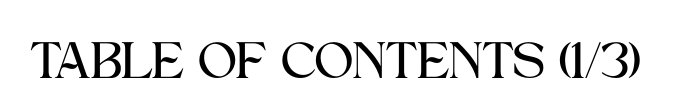
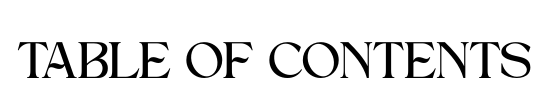
Fixed a few bugs

Changed region(s): [[0.0311, 0.3853, 0.9963, 0.7156]]

diff --git a/client/src/components/tableOfContents/TableOfContents.jsx b/client/src/components/tableOfContents/TableOfContents.jsx
@@ -68,8 +68,7 @@ function TableOfContents(){
 
     function SearchBar(){
         return(
-            <div className="searchBar">
-            {/* onChange={event => {setName(event.target.value);}} */}
+            <div className="searchBarTOC">
             <div className="searchTop">
                 <input className="searchInput" type="text"  placeholder = "Spell Name..."
                     onChange={onChange}
@@ -86,7 +85,6 @@ function TableOfContents(){
                     }}>{item.spell_name} </button>
                     
                 ))}
-                {/* <button className="closeBtn" onClick={closeSearch}>Close</button> */}
             </div>
             <button className="closeBtn" onClick={closeSearch}>Close</button>
 
@@ -98,12 +96,12 @@ function TableOfContents(){
     return(
         <div className="tableOfContentsPage">
             <div className="navbar">
-            {showSearch ? <img className="search" src={searchImage} alt="Search" onClick={openSearch}/>: SearchBar()}
+            {showSearch ? <img className="search" src={searchImage} alt="Search" onClick={openSearch} style={{marginTop:"0rem"}}/>: SearchBar()}
             <img className="homeImage" src={homeBlackImage} alt="Home" onClick={() => navigate("/")}/>
             </div>
             <div className="tocTitle">
                 <div className="column half">
-                    <img className="toc" src={tableOfContentsTitle} alt="Table of Contents"/>
+                    <img className="toc" src={tableOfContentsTitle} alt="Table of Contents" style={{marginBottom:'0rem', marginLeft:'-0.3rem'}}/>
                     <img className="leaf" src={leafImage} alt="Leaf"/>
 
                     <div className="arcaneText">

diff --git a/client/src/components/spellPages/assets/spellPagesStyle.css b/client/src/components/spellPages/assets/spellPagesStyle.css
@@ -20,7 +20,7 @@ body, html {
     padding: 1rem;
 }
 
-.navbar {
+.navbarTOC {
     display: flex;
     align-items: center;
     justify-content: space-between;
@@ -29,7 +29,7 @@ body, html {
     margin-top: 0;
 }
 
-.navbar .leftIcons {
+.navbarTOC .leftIcons {
     display: flex;
     margin-top: 23rem;
     margin-left: -1.2rem;
@@ -40,50 +40,50 @@ body, html {
     gap: 10px;
 }
 
-.navbar .leftIcons img {
-    width: 2rem; 
+.navbarTOC .leftIcons img {
+    width: 1.6rem; 
     margin-top: -8rem; 
     margin-right: 10px;
 }
 
-.navbar .rightIcons {
+.navbarTOC .rightIcons {
     display: flex;
     align-items: center;
     margin-left: 20rem;
     margin-top: -1rem;
 }
 
-.navbar img.rightNav {
+.navbarTOC img.rightNav {
     margin-right: 7px; 
     cursor: pointer;
     max-width: 37%;
     max-height: auto;
 }
 
-.navbar img.search {
+.navbarTOC img.search {
     cursor: pointer;
 }
 
-.navbar img.rightNav {
+.navbarTOC img.rightNav {
     cursor: pointer;
 }
 
-.navbar img.spellCart {
+.navbarTOC img.spellCart {
     margin-top: 10px;
     cursor: pointer;
 }
 
-.navbar img.spellCart:hover {
+.navbarTOC img.spellCart:hover {
     transform: scale(1.1); 
     transition: transform 0.3s ease-in-out;
 }
 
-.navbar img.search:hover {
+.navbarTOC img.search:hover {
     transform: scale(1.1); 
     transition: transform 0.3s ease-in-out;
 }
 
-.navbar img.rightNav:hover {
+.navbarTOC img.rightNav:hover {
     transform: scale(1.1); 
     transition: transform 0.3s ease-in-out;
 }

diff --git a/client/src/components/tableOfContents/assets/tableOfContentsStyle.css b/client/src/components/tableOfContents/assets/tableOfContentsStyle.css
@@ -172,3 +172,15 @@ body, html {
     color: #fff;
     vertical-align: middle;
 }
+
+.searchBarTOC{
+    display: flex;
+    flex-direction: column;
+    height: 20rem;
+    width: 20rem;
+    background-color: black;
+    color: white;
+    position:absolute;
+    margin-top: 0rem;
+    padding-top: 1rem;
+}

diff --git a/client/src/components/spellPages/SpellPages.jsx b/client/src/components/spellPages/SpellPages.jsx
@@ -188,7 +188,7 @@ function SpellPages(){
 
     return(
         <div className="spellPage">
-            <div className="navbar">
+            <div className="navbarTOC">
                 <div className="leftIcons">
                     {/*openSearch()  showSearch ? "" :*/}
 
